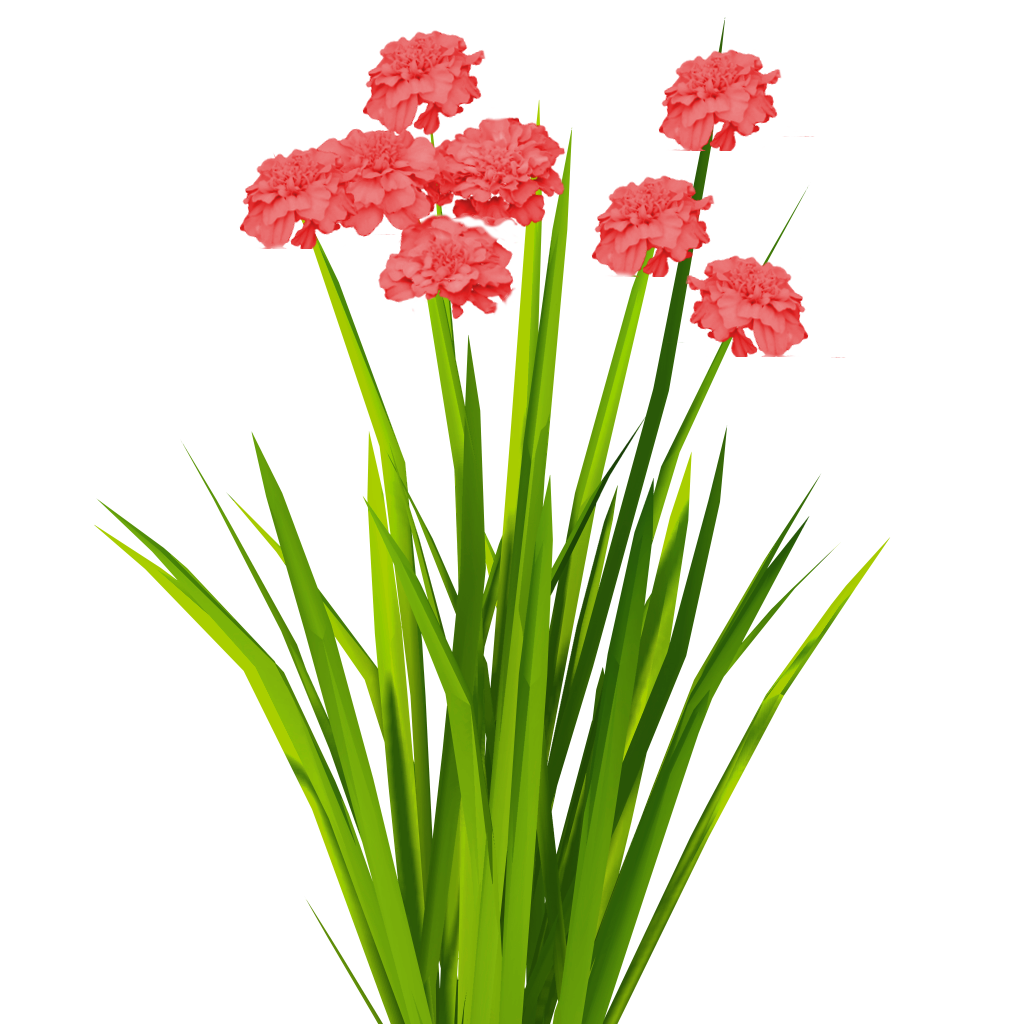
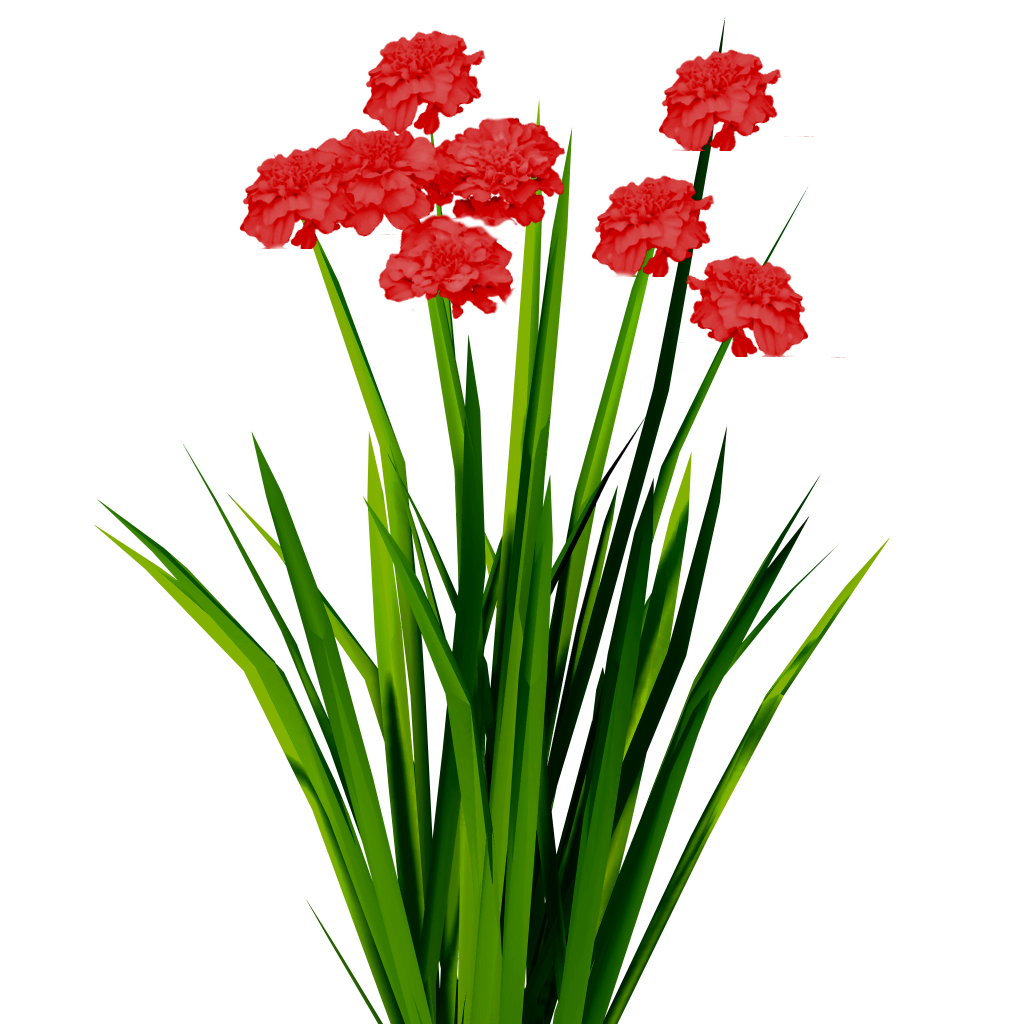
color adjustments

Changed region(s): [[0.0938, 0.0312, 0.8125, 1.0], [0.8438, 0.5312, 0.875, 0.5625], [0.8125, 0.5625, 0.8438, 0.5938]]

diff --git a/examples/ThreexDemo.js b/examples/ThreexDemo.js
@@ -25,6 +25,9 @@ export class ThreexDemo {
         this.textureLoader = new THREE.TextureLoader();
         this.textureLoaderB = new THREE.TextureLoader();
 
+        let planeWidth = 0.4;
+        let planeHeight = 0.2;
+
         this.loadTextures();
     }
 
@@ -69,7 +72,7 @@ export class ThreexDemo {
         this.camera.position.z = 1;
 
         // add a ambient light
-        let ambientLight = new THREE.AmbientLight(0xcccccc, 0.5);
+        let ambientLight = new THREE.AmbientLight(0xffffff, 0.5);
         this.scene.add(ambientLight);
 
         // add a light in front
@@ -83,65 +86,74 @@ export class ThreexDemo {
         this.scene.add(directionalLightB);
 
         // ground
-        let textureUrl = this.baseUrl + "images/grass_terrain.jpg";
+        let textureUrl = this.baseUrl + "images/grass_map.png";
         let texture = this.textureLoaderB.load(textureUrl);
-        texture.wrapS = THREE.RepeatWrapping;
-        texture.wrapT = THREE.RepeatWrapping;
-        texture.repeat.x = 20;
-        texture.repeat.y = 20;
-        texture.anisotropy = this.renderer.capabilities.getMaxAnisotropy();
+        let normalUrl = this.baseUrl + "images/grass_normal.png";
+        let normal = this.textureLoaderB.load(normalUrl);
+        texture.wrapS = normal.wrapS = THREE.RepeatWrapping;
+        texture.wrapT = normal.wrapT = THREE.RepeatWrapping;
+        texture.repeat.x = normal.repeat.x = 20;
+        texture.repeat.y = normal.repeat.y = 20;
+        texture.anisotropy = normal.anisotropy = this.renderer.capabilities.getMaxAnisotropy();
         // ground mesh
         let geometry = new THREE.PlaneGeometry(20, 20);
         let material = new THREE.MeshPhongMaterial({
             map: texture,
+            normalMap: normal
         });
         let ground = new THREE.Mesh(geometry, material);
         ground.rotateX(-Math.PI / 2);
         this.scene.add(ground);
 
+        // PLANTS
+
         // grass01
         let nTufts_g1 = 5000;
         let positions_g1 = new Array(nTufts_g1);
+        let size_g1 = {w: 0.4, h: 0.2, y: 0.1};
         for (let i = 0; i < nTufts_g1; i++) {
             let position = new THREE.Vector3();
             position.x = (Math.random() - 0.5) * 20;
             position.z = (Math.random() - 0.5) * 20;
             positions_g1[i] = position;
         }
-        ThreexGrass.createGrassTufts(this.scene, positions_g1, textures["grass01.png"]);
+        ThreexGrass.createGrassTufts(this.scene, positions_g1, textures["grass01.png"], size_g1);
 
         // grass02
         let nTufts_g2 = 5000;
         let positions_g2 = new Array(nTufts_g2);
+        let size_g2 = {w: 0.4, h: 0.2, y: 0.1};
         for (let i = 0; i < nTufts_g2; i++) {
             let position = new THREE.Vector3();
             position.x = (Math.random() - 0.5) * 20;
             position.z = (Math.random() - 0.5) * 20;
             positions_g2[i] = position;
         }
-        ThreexGrass.createGrassTufts(this.scene, positions_g2, textures["grass02.png"]);
+        ThreexGrass.createGrassTufts(this.scene, positions_g2, textures["grass02.png"], size_g2);
 
         // flowers01
         let nTufts_f1 = 100;
         let positions_f1 = new Array(nTufts_f1);
+        let size_f1 = {w: 0.4, h: 0.2, y: 0.1};
         for (let i = 0; i < nTufts_f1; i++) {
             let position = new THREE.Vector3();
             position.x = (Math.random() - 0.5) * 20;
             position.z = (Math.random() - 0.5) * 20;
             positions_f1[i] = position;
         }
-        ThreexGrass.createGrassTufts(this.scene, positions_f1, textures["flowers01.png"]);
+        ThreexGrass.createGrassTufts(this.scene, positions_f1, textures["flowers01.png"], size_f1);
 
         // flowers02
         let nTufts_f2 = 100;
         let positions_f2 = new Array(nTufts_f2);
+        let size_f2 = {w: 0.4, h: 0.2, y: 0.1};
         for (let i = 0; i < nTufts_f2; i++) {
             let position = new THREE.Vector3();
             position.x = (Math.random() - 0.5) * 20;
             position.z = (Math.random() - 0.5) * 20;
             positions_f2[i] = position;
         }
-        ThreexGrass.createGrassTufts(this.scene, positions_f2, textures["flowers02.png"]);
+        ThreexGrass.createGrassTufts(this.scene, positions_f2, textures["flowers02.png"], size_f2);
 
         // for camera annoyance
         document.addEventListener(

diff --git a/ThreexGrass.js b/ThreexGrass.js
@@ -1,11 +1,9 @@
 import * as THREE from "three";
 
 export class ThreexGrass {
-    static createGrassTufts(scene, positions, texture) {
+    static createGrassTufts(scene, positions, texture, size) {
         // create the initial geometry
-        let planeWidth = 0.4;
-        let planeHeight = 0.2;
-        let geometry = new THREE.PlaneGeometry(planeWidth, planeHeight);
+        let geometry = new THREE.PlaneGeometry(size.w, size.h);
 
         let material = new THREE.MeshPhongMaterial({
             map: texture,
@@ -18,7 +16,7 @@ export class ThreexGrass {
 
         for (let i = 0; i < positions.length; i++) {
             let position = positions[i];
-            position.y = planeHeight/2;
+            position.y = size.y;
             let baseAngle = Math.PI * 2 * Math.random();
 
             let nPlanes = 2;
